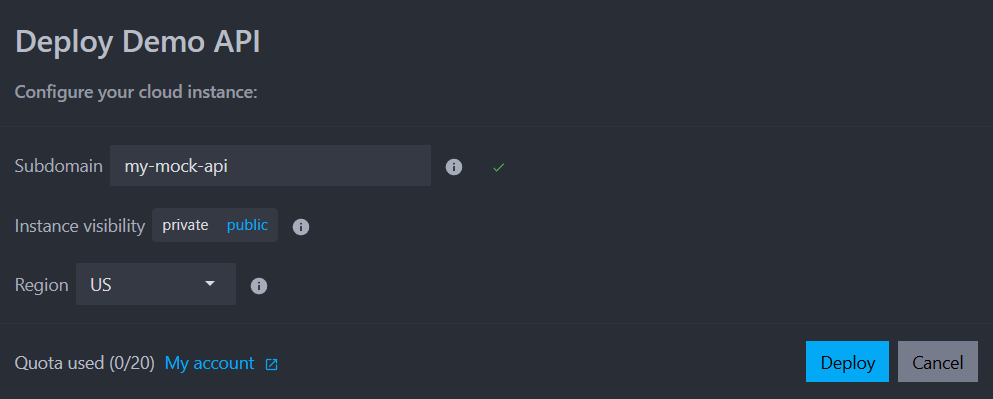
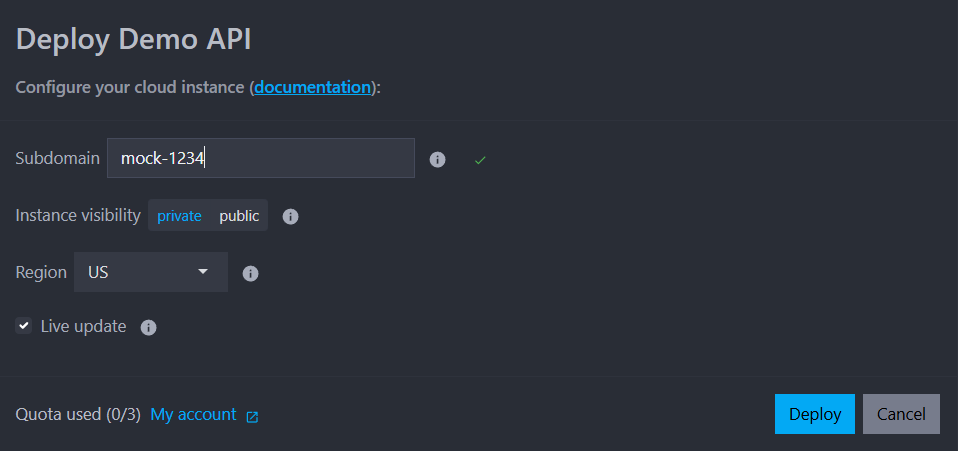
Add docs for mockoon/mockoon#2135

diff --git a/content/cloud-docs/api-mock-cloud-deployments.md b/content/cloud-docs/api-mock-cloud-deployments.md
@@ -27,8 +27,9 @@ In the deployment dialog, you can further customize your instance:
   - **Public**: The environment will be accessible to anyone with the URL.
   - **Private**: The environment will be accessible only to users with the URL and the **API key** (see [Instance URL and visibility](#instance-url-and-visibility) below).
 - **Region**: The region where the instance will be deployed. You can choose from the available regions in the dropdown list. The default region is `US` (Central, Iowa) (See [available regions](/pricing/#available-regions)).
+- **Live updates**: If enabled, changes made to the environment will be pushed to the cloud instance automatically without requiring a manual re-deployment. If disabled, changes will only be applied to the cloud instance when you manually re-deploy it (see [Live updates and re-deployments](#live-updates-and-re-deployments) for more information).
 
-![deployment dialog{993x399}](cloud-docs-img:deploy-environment-dialog.png)
+![deployment dialog{958x451}](cloud-docs-img:deploy-environment-dialog.png)
 
 After clicking the **"Deploy"** button, the environment will be uploaded to the cloud and will be accessible using the provided URL. In the management dialog, you can find the URL and the API key to access the environment. You can also re-deploy the environment or delete the instance:
 
@@ -40,26 +41,11 @@ In the management dialog, you can **re-deploy** the environment or **delete** th
 
 ![deployment management dialog re-deploy or delete the instance menu{886x210}](cloud-docs-img:deploy-environment-management-menu.png)
 
-### Desktop/web apps and re-deployments
+### Live updates and re-deployments
 
-Currently, the behavior of re-deployments is different depending on whether you are using the desktop application or the web application:
+If you enabled the **Live updates** option when deploying the environment, changes made to the environment will be pushed to the cloud instance automatically without requiring a manual re-deployment. This allows you to see the changes reflected in the running instance nearly in real-time. Behind the scenes, the application pushed the necessary changes to the cloud instance using the [Admin API](docs:admin-api/overview) within a short delay.
 
-- **Desktop application**: For historical reasons, the desktop application is still biased towards local development. Therefore, all changes made to cloud environments will only be applied to the cloud instances when you re-deploy them manually. This allows you to make changes to your environment without affecting the running instance until you are ready to update it.
-- **Web application**: In the web application, many changes are pushed to the cloud instance automatically without requiring a manual re-deployment. This is because the web application is designed to be more collaborative and real-time, allowing you to see the changes reflected in the running instance immediately. However, some changes may still require a manual re-deployment, depending on their nature.
-
-  The following changes are **applied automatically**:
-  - Some environment properties (headers, proxy headers, latency, etc.).
-  - Some route properties (response mode).
-  - Adding and removing callbacks.
-  - Route responses (headers, latency, status code, callbacks calls, rules, etc.).
-
-  The following changes still **require a manual re-deployment**:
-  - Route paths and methods.
-  - Adding or removing routes.
-  - Environment port, hostname, proxy and TLS options.
-  - Adding or removing data buckets.
-
-We plan to unify this behavior in future versions of Mockoon to provide a consistent experience across both applications.
+Note: Prior to v9.6.0, the live updates feature only applied to some properties of the environment and routes and was only available in the web application. Starting with v9.6.0, live updates are now available for all properties and are enabled by default in both the desktop and web applications.
 
 ## Instance URL and visibility
 
@@ -84,7 +70,7 @@ Starting with Mockoon v9.5.0, you can use [Mockoon CLI](/cli/) to **deploy your 
 
 The application will provide you with the necessary **commands and instructions** to set up and run the mock on your own servers:
 
-![cloud deployment with CLI](cloud-docs-img:cli-pull-instructions.png)
+![cloud deployment with CLI{1200x479}](cloud-docs-img:cli-pull-instructions.png)
 
 The necessary steps are:
 

diff --git a/content/docs/latest/openapi/import-export-openapi-format.md b/content/docs/latest/openapi/import-export-openapi-format.md
@@ -16,21 +16,21 @@ Mockoon supports imports in both OpenAPI v2 (Swagger) and v3 formats. Environmen
 
 To import an environment from a file, open the **Environment creation** menu, and select **New local environment from OpenAPI/Swagger**:
 
-![Click on Import Swagger v2/OpenAPI v3 (JSON or YAML)](/images/docs/shared/import-open-api-main-menu.png)
+![Click on Import Swagger v2/OpenAPI v3 (JSON or YAML){989x209}](/images/docs/shared/import-open-api-main-menu.png)
 
 A dialog will open where you can either provide a **file path**, **URL** or **paste the content** of your OpenAPI/Swagger file in JSON or YAML format:
 
-![OpenAPI import dialog](/images/docs/shared/import-openapi-dialog.png)
+![OpenAPI import dialog{995x665}](/images/docs/shared/import-openapi-dialog.png)
 
 ### Update/reimport an environment from an OpenAPI v2 or v3 JSON/YAML file
 
 Starting with [v9.6.0](/releases/9.6.0/), you can also update an existing environment with an OpenAPI specification file. To do so, open the **Environment context menu**, and select **Reimport from OpenAPI/Swagger**:
 
-![Click on Reimport Swagger v2/OpenAPI v3 (JSON or YAML)](docs-img:reimport-openapi-context-menu.png)
+![Click on Reimport Swagger v2/OpenAPI v3 (JSON or YAML){729x311}](docs-img:reimport-openapi-context-menu.png)
 
 After selecting the file, or copying the content, a import summary will be displayed showing the planned changes to the environment. You can then choose to apply or discard the changes:
 
-![OpenAPI reimport summary dialog](docs-img:reimport-openapi-summary.png)
+![OpenAPI reimport summary dialog{955x637}](docs-img:reimport-openapi-summary.png)
 
 The following operations are supported when reimporting an OpenAPI specification file:
 
@@ -43,7 +43,7 @@ No existing routes or responses will be modified or deleted when reimporting an 
 
 To export an environment to a JSON file, use the **Export Current Environment to OpenAPI** commands from the command palette:
 
-![Command palette showing export to OpenAPI commands](/images/docs/shared/export-openapi-command-palette.png)
+![Command palette showing export to OpenAPI commands{1026x185}](/images/docs/shared/export-openapi-command-palette.png)
 
 ### Compatibility
 

diff --git a/content/docs/v9.4.0/openapi/import-export-openapi-format.md b/content/docs/v9.4.0/openapi/import-export-openapi-format.md
@@ -16,17 +16,17 @@ Mockoon supports imports in both OpenAPI v2 (Swagger) and v3 formats. Environmen
 
 To import an environment from a file, open the **Environment creation** menu, and select **New local environment from OpenAPI/Swagger**:
 
-![Click on Import Swagger v2/OpenAPI v3 (JSON or YAML)](/images/docs/shared/import-open-api-main-menu.png)
+![Click on Import Swagger v2/OpenAPI v3 (JSON or YAML){989x209}](/images/docs/shared/import-open-api-main-menu.png)
 
 A dialog will open where you can either provide a **file path**, **URL** or **paste the content** of your OpenAPI/Swagger file in JSON or YAML format:
 
-![OpenAPI import dialog](/images/docs/shared/import-openapi-dialog.png)
+![OpenAPI import dialog{995x665}](/images/docs/shared/import-openapi-dialog.png)
 
 ### Export an environment to an OpenAPI v3 JSON file
 
 To export an environment to a JSON file, use the **Export Current Environment to OpenAPI** commands from the command palette:
 
-![Command palette showing export to OpenAPI commands](/images/docs/shared/export-openapi-command-palette.png)
+![Command palette showing export to OpenAPI commands{1026x185}](/images/docs/shared/export-openapi-command-palette.png)
 
 ### Compatibility
 

diff --git a/content/cloud-docs/web-application.md b/content/cloud-docs/web-application.md
@@ -27,7 +27,6 @@ The interface is the same as the desktop application, with a few differences due
 - [Cloud deployments unsupported features](cloud-docs:api-mock-cloud-deployments#unsupported-features) (file serving, custom TLS, etc.) are hidden to avoid confusion.
 - Desktop/local specific options and features are disabled or hidden (managing local environments, etc.).
 - Some interface elements were modified to fit the web application (e.g. the server start button deploys to the cloud instead of starting a local server).
-- The web application handles re-deployments differently than the desktop application (see [Desktop/web apps and re-deployments](cloud-docs:api-mock-cloud-deployments#desktopweb-apps-and-re-deployments) for more information).
 
 As this application is still in early access, we are working on improving the interface and adding new features. We welcome your feedback and suggestions to help us make it better.
 

diff --git a/content/cloud-docs/access-tokens.md b/content/cloud-docs/access-tokens.md
@@ -22,7 +22,7 @@ Currently, the following features support access tokens:
 
 You can **create and revoke your access tokens** from the [access tokens](/account/access-tokens/) page in your Mockoon Cloud account settings.
 
-![access tokens management interface](cloud-docs-img:create-manage-access-tokens-tokens.png)
+![access tokens management interface{1414x597}](cloud-docs-img:create-manage-access-tokens-tokens.png)
 
 The following parameters are customizable when creating a new access token:
 
